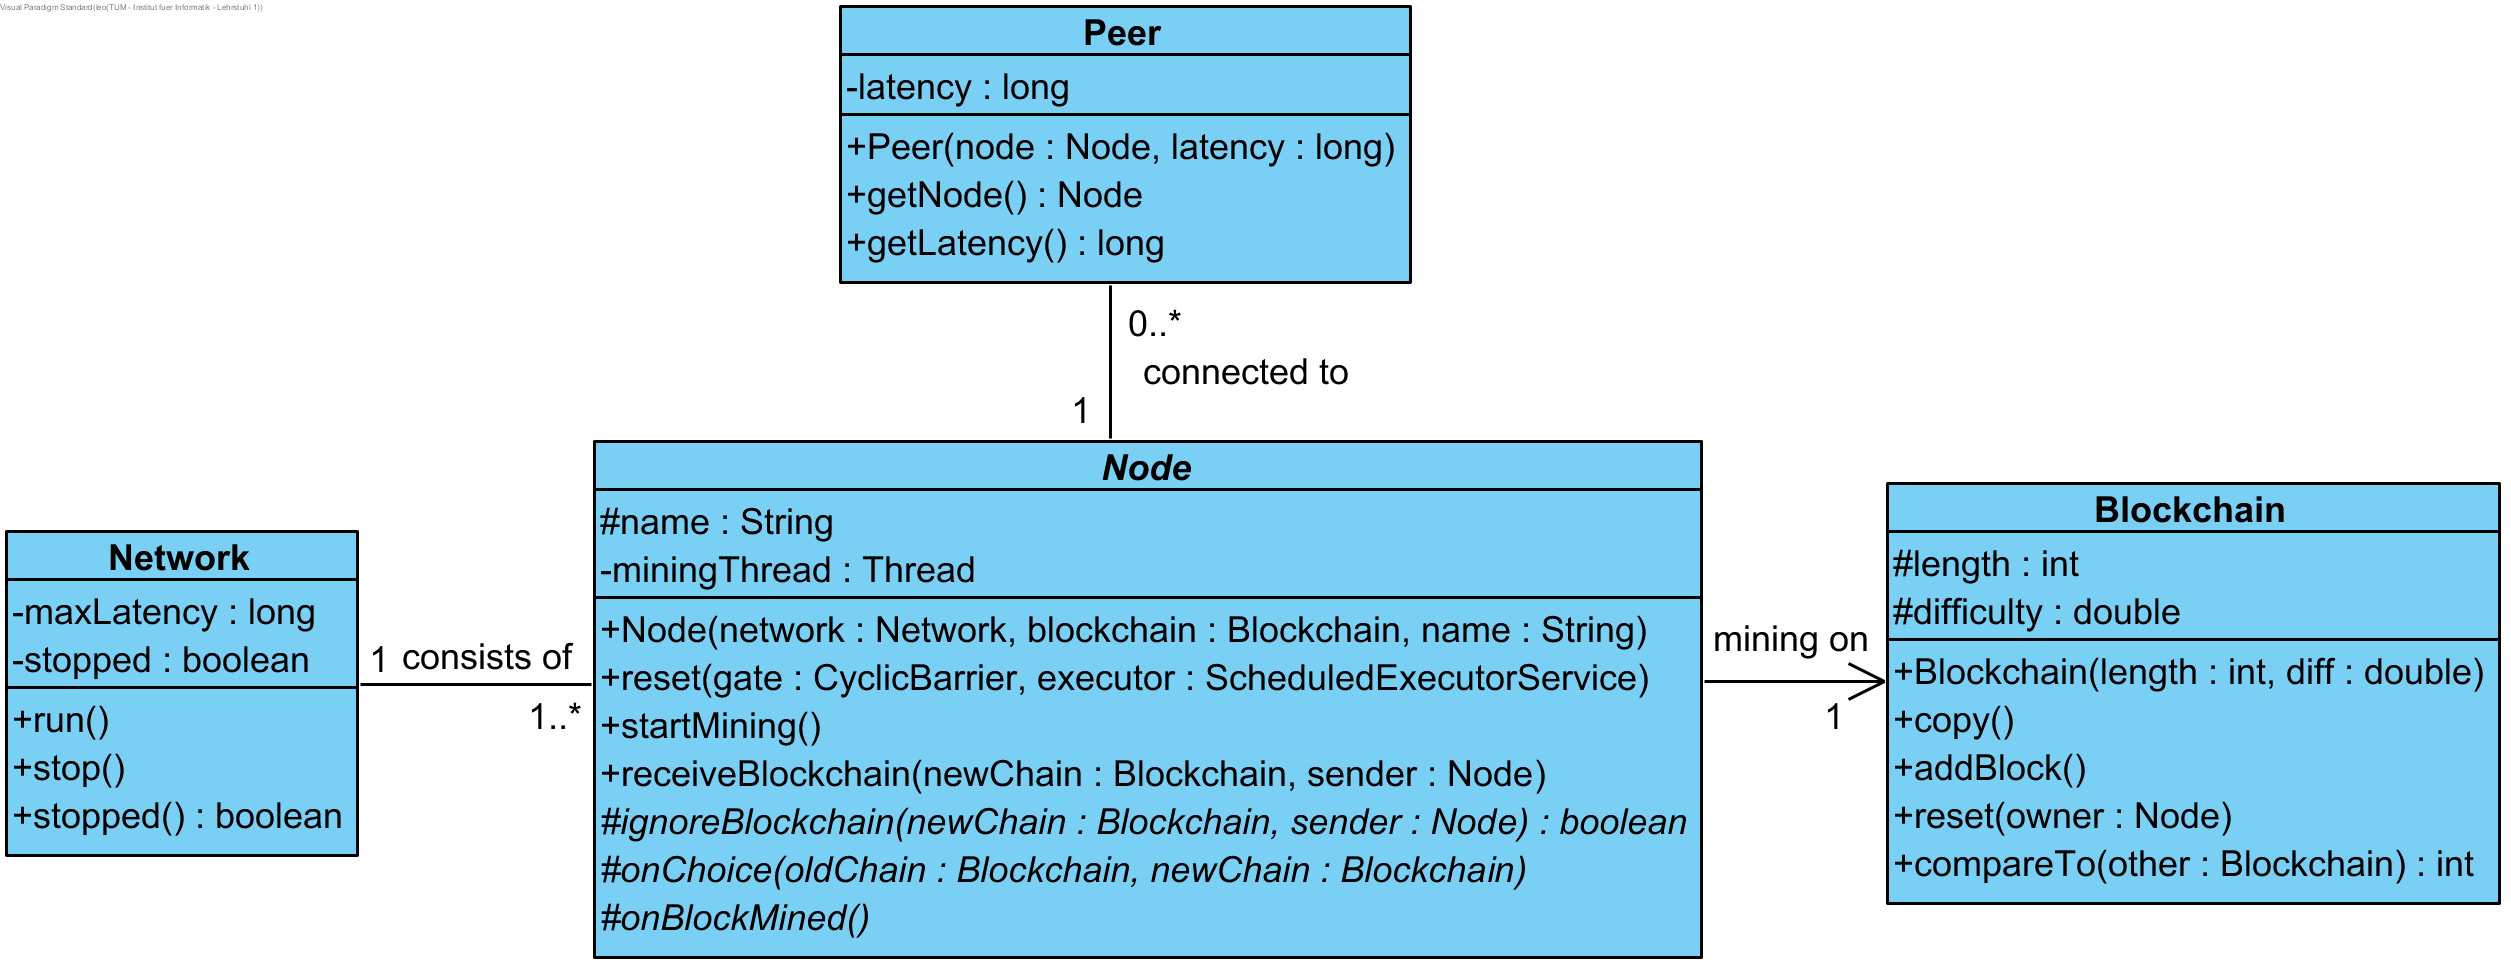
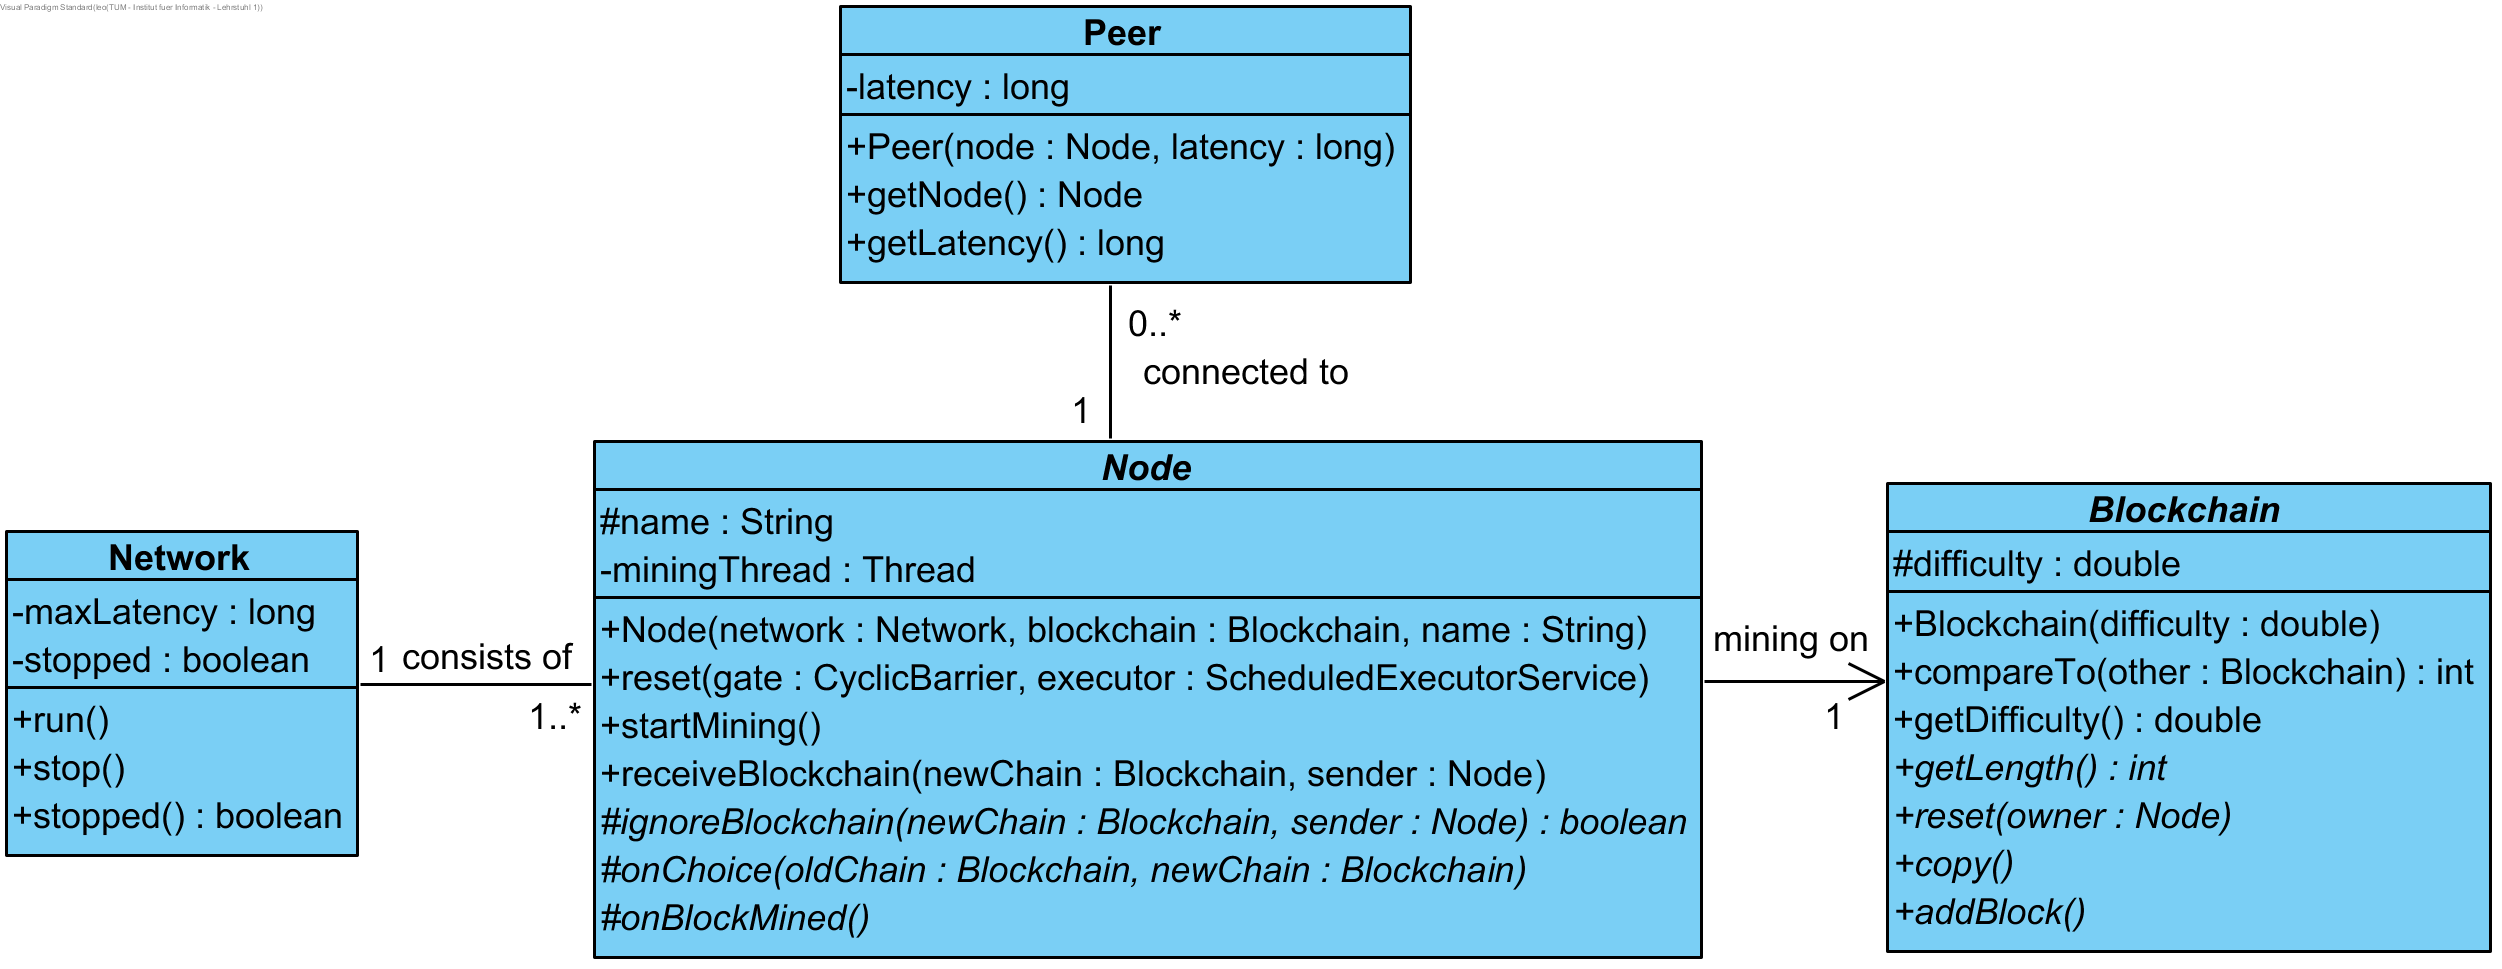
Approach

diff --git a/Thesis/thesis.tex b/Thesis/thesis.tex
@@ -21,6 +21,8 @@
 \usepackage{array}
 \usepackage{longtable}
 \usepackage{amsmath}
+\usepackage{algorithm}
+\usepackage[noend]{algpseudocode}
 \usepackage{listings}
 \usepackage[utf8]{inputenc}
 \usepackage[capitalize, noabbrev]{cleveref}
@@ -43,8 +45,8 @@
 
 
 \hypersetup{pdfborder={0 0 0},
-                        pdfauthor={<author>},
-                        pdftitle={<title english>},
+                        pdfauthor={Leo Eichhorn},
+                        pdftitle={Simulation-Based Analysis of Blockchain Architectures},
                         }
 
 \lstset{showspaces=false, numbers=left, frame=single, basicstyle=\small}
@@ -98,7 +100,11 @@
 
 \begin{acronym}
 \acro{RADS}{Resistance of a blockchain architecture against double spend attacks}
-
+\acro{UTXO}{Bitcoin unspent transaction output}
+\acro{APSP}{All pairs shortest path problem}
+\acro{BTC}{The Bitcoin currency}
+\acro{PoW}{Proof of work}
+\acro{DSA}{Double-spend attack}
 \end{acronym}
 
 \pagenumbering{arabic}
@@ -130,7 +136,7 @@ A blockchain is a public\footnote{In this thesis, only permissionless blockchain
 	\label{blockchain}
 \end{figure}
  
-\section{Bitcoin}
+\section{Bitcoin} \label{bitcoin}
 To gain a better understanding of the blockchain technology and dynamics in a blockchain network, we will provide a short summary of Bitcoin as a concrete example of application. For a more detailed description of the Bitcoin protocol, refer to \cite{nakamoto2008bitcoin,antonopoulos2017mastering,okupski2014bitcoin}.
 
  Bitcoin is a decentralized digital cryptocurrency created by Satoshi Nakamoto in 2008. In the original Bitcoin paper \cite{nakamoto2008bitcoin}, Nakamoto briefly describes the concepts of the proposed protocol and introduces blockchains as a solution to the apparent double-spending problem. Since Bitcoin is operating entirely on a peer-to-peer basis, a central, monitoring authority, known from services like \textit{Visa} or \textit{Paypal}, does not exist. To still guarantee that the same transaction cannot be sent multiple times and the sender's capital is sufficient, Nakamoto's blockchain operates as a public ledger and stores each successful transaction, marked with a unique ID. By creating this synchronized and chronological order of transaction events, a sender's liquidity can easily be confirmed by traversing the public blockchain history and calculating the result of all previous transactions. \cite{nakamoto2008bitcoin,bitcoinwiki}
@@ -199,12 +205,9 @@ For this attack to succeed, \textit{A} needs to mine blocks onto the secret bloc
 \chapter{Related Work}
 \section{Hashrate-based Models for Double-Spend Attacks}
 Potential attacks on blockchains, especially the Bitcoin protocol, have been conceptualized since the release of Nakamoto's original Bitcoin paper \cite{nakamoto2008bitcoin}. In chapter 11 of his proposal, Nakamoto formulates the first mathematical model to calculate the theoretical probability of successful double-spend attacks on his protocol. This model has since been improved and adapted several times, while similar, independent models have been formulated as well \cite{HBDSA,DSAwithTime,NakamotoDSACorrection,NakamotoExplMCSim}. Similar to \cite{DSAwithTime}, we will call the collection of these approaches \textit{hashrate-based} attack models. The central premise of a hashrate-based model is splitting the total computing power available to the network (hashrate \textit{H}), into two parts. To achieve this, \cite{HBDSA} defines \textit{pH} as the hashrate controlled by honest nodes adhering to the protocol, while \textit{qH} is used by malicious nodes trying to attack the blockchain. Since also
-\begin{subequations}
-\renewcommand{\theequation}{\theparentequation.\arabic{equation}}
-\begin{align}
-p + q & = 1
-\end{align}
-\end{subequations}
+\begin{equation}
+p + q = 1
+\end{equation}
 it can easily be seen that \textit{p} and \textit{q} are precisely the probabilities of the next block being mined by either the honest or the attacking part of the network. Using an adaptation of the Gambler's Ruin problem \cite{gamblersruin}, Nakamoto and \cite{HBDSA} are now calculating the probability \textit{Q\textsubscript{z}} of an attacker successfully catching up with their fork of the blockchain, asuming they are at a total deficit of \textit{z} blocks compared to the honest nodes. The success of a potential double-spend attack against a merchant waiting for \textit{n} confirmations can now be formulated as the probability of \textit{Q\textsubscript{z}}, after \textit{n} blocks have been mined by the honest network. While \cite{nakamoto2008bitcoin} is using a poisson distribution in his formula, \cite{HBDSA} is achieving similar results with a negative binomial distribution. Combined with \cite{NakamotoDSACorrection}, the author of \cite{HBDSA} is also pointing out and correcting an of-by-one error introduced by Nakamoto, who is only calculating the probability of an attacker \textit{catching up} with his fraudulent blockchain fork, while for the double spend attack to be successful, the length of the honest chain has to be \textit{surpassed}. \cite{DSAwithTime} presents two similar approaches but considers partial advancement towards block creation as well. The author's first model extends the hashrate-based model formulated by \cite{HBDSA} and includes an additional parameter, indicating the time an attacker has already spent mining on blocks. The second model is fundamentally based on the time differences at which honest and attacking nodes have mined their last block, but is also relying on hashrates as a measure of computational power.
 It is interesting to note that all of the before mentioned models produce similar results, despite the differences in their calculations. Therefore it is less surprising that the authors seem to agree on their general conclusions as well. Those can be summarized as follows:
 \begin{itemize}
@@ -235,13 +238,15 @@ Using these parameters and the simulator framework, we will then propose our own
 \chapter{Approach}
 
 \section{Simulation Framework}
-The core part of the simulator represents an abstracted framework for blockchain architectures. Compared to the example blockchain protocol presented by Bitcoin, a few adaptations have been made 
+To simplify future implementation of simulations for other attacks on block-chains, the core part of our simulator represents an extensible, abstracted framework for general blockchain architectures. By subclassing the existing elements of the framework, the simulator's functionality can be extended and customized, in order to model specific blockchain dynamics. Compared to the example blockchain protocol presented in Section \ref{bitcoin}, a few adaptations have been made:
 \begin{itemize}
-\item nodes send their entire version of the blockchain
-\item blockchain represented by its length
-\item not transactions or blocks
-\item nodes start mining on received blockchain if it is longer than the blockchain currently being mined on
-\item generating random numbers instead of increment nonce + hash
+\item Every node of the network is a miner.
+\item Each miner is represented by a single program thread.
+\item Instead of hashing a block and updating nonce values, mining a block consists of repeatedly generating random numbers until a number lower than the target difficulty is found.
+\item The framework does not include generation and transmission of transactions, since the data contained inside the blocks is not relevant to our investigations.
+\item Instead of sending single blocks, miners propagate whole copies of their local blockchains along the network.
+\item Nodes start mining on a received blockchain if it is longer than the blockchain currently being mined on.
+\item Latency time between two peers is constant and symmetric.
 \end{itemize}
 \subsection{Classes}
 \begin{figure}[ht]
@@ -252,7 +257,7 @@ The core part of the simulator represents an abstracted framework for blockchain
 \end{figure}
 
 \subsubsection{Node}
-The node represents a basic implementation of a honest miner adhering to the blockchain protocol. Each node contains a reference to every other node in the network using the peer class. Once a new block is mined, it is added to the local blockchain and, after the corresponding latency, a copy of the blockchain is sent to all peers. The node will only start mining on a newly received blockchain, if it is longer than the local blockchain copy. To simplify execution of multiple simulation runs, each node can be reset to their initial state. To allow simulation of nodes diverging from the standard protocol, the class contains three abstract methods which can be implemented to alter the behavior of the node. 
+The node represents a basic implementation of a honest miner adhering to our blockchain protocol. Each node contains a reference to every other node in the network using the peer class. Once a new block is mined, it is added to the local blockchain and, after the corresponding latency times, a copy of the blockchain is sent to all peers. The node will only start mining on a newly received blockchain if it is longer than the local blockchain copy. To simplify execution of multiple simulation runs, each node can be reset to their initial state. To allow simulation of nodes diverging from the standard protocol, the class contains three abstract methods which can be implemented to alter the behavior of the node. 
 
 \subsubsection{Peer}
 To represent the connection to a node in the network, the peer implements a simple data class, containing the latency time in milliseconds needed to reach the referenced node.
@@ -261,11 +266,11 @@ To represent the connection to a node in the network, the peer implements a simp
 In order to allow concrete implementations of different blockchain models, the blockchain class only provides the abstracted interface required by nodes. An implementation of the blockchain class therefore contains routines for adding a block and returning the length of the blockchain. Since nodes propagate whole copies of the blockchain instead of single blocks, a method of copying the blockchain has to be implemented as well.
 
 \subsubsection{Network}
-The network acts as a central controller of the blockchain framework. It maintains references to all nodes in the network and provides simple routines for starting and stopping the mining process of all nodes in a synchronized manner. Once the network is started, the calling thread of \textit{run()} is blocked, until the execution of all nodes is completed. The nodes terminate their mining threads after the network is stopped, which is ideally done as a consequence of some end condition reached by the simulation.
+The network acts as a central controller of the blockchain framework. It maintains references to all nodes in the network and provides simple routines for starting and stopping the mining processes of all nodes in a synchronized manner. Once the network is started, the calling thread of \textit{run()} is blocked until the execution of all nodes is completed. The nodes terminate their mining threads after the network is stopped, which is ideally done as a consequence of some end condition reached by the simulation.
 
 
 \subsection{Creating the Peer-to-peer Network}
-Strategy pattern
+Apart from simulating blockchains and miners, the simulator framework requires additional functionality to model different forms of peer-to-peer networks. The general task is to create a connected graph of all nodes, whereas edges and edge weights represent the latency times between two nodes. Using the strategy pattern\cite{strategy}, the simulator framework provides implementations of five different ways of modeling the network (\autoref{peerstrategy}), while additional strategies can easily be added in the future. The different peer strategies are used by instantiating the specific strategy and calling the \textit{connectPeers()} method using a list of all nodes in the network. The strategy will then populate the peer lists of each node accordingly. In the following an overview of the available strategies will be provided.
 \begin{figure}[ht]
 	\centering
   \includegraphics[width=\textwidth]{PeerStrategy.png}
@@ -273,14 +278,53 @@ Strategy pattern
 	\label{peerstrategy}
 \end{figure}
 \subsubsection{ConstantPeerStrategy}
+All nodes in the network are connected by symmetric latencies $l$, sampled from a normal distribution with constant mean $m$. The standard deviation is calculated using a constant deviation factor $c$ and the mean.
+\begin{equation}\label{distribution} 
+l\in L\sim cmN(0,1)+m = N(m,c^{2}m^{2})
+\end{equation}
 \subsubsection{EuclideanPeerStrategy}
+Similar to the model presented by \cite{mwalemodel}, all Nodes are assigned random coordinates $(x,y)$ in a two dimensional plane. The latency between two Nodes $p$ and $q$ is sampled from a normal distribution whose mean $m$ is equal to the nodes' euclidean distance.
+\begin{equation}\label{euclid}
+m = \sqrt{(p_{x}-q_{x})^{2}+(p_{y}-q_{y})^{2}}
+\end{equation}
+The standard deviation is calculated as shown in formula \ref{distribution}. By setting the strategy's \textit{width} and \textit{height} parameters, the area of the two dimensional plane can be defined. Creating a bigger plane therefore leads to overall higher latencies in the network.
 \subsubsection{AdjMatrixPeerStrategy}
+This strategy creates a graph of nodes according to a given adjacency matrix. Latencies between two nodes are represented by the matrix entries, whose indices refer to the corresponding nodes in the provided list. Negative entries indicate that there is no connection between two nodes, whereas a value of zero leads to a connection without latency. Choosing the entry values allows simulation of typical network topologies like stars and rings. After creating the graph, Dijkstra's shortest path algorithm\cite{dijkstra} is used to solve the all pairs shortest path (APSP) problem. With the resulting distance matrix, all peers of each node can be initialized.
 \subsubsection{BoolMatrixPeerStrategy}
+Similar to the previous strategy, a graph is created as specified by the given adjacency matrix. This time, positive entries of the matrix only indicate existence of a connection between two nodes, whereas negative and zero values lead to no connection in the graph. The latencies are instead sampled from a normal distribution with constant mean and standard deviation as defined by formula \ref{distribution}.
 \subsubsection{RndGraphPeerStrategy}
+This strategy generates a pseudo-random graph with a given number of nodes and edges. To avoid the infinite scale of a parameter defining the number of edges, the graph density $d$ is used instead. Since the generated graph has to be connected, the number of edges $e$ is calculated from $d$ and the number of nodes $n$ as shown in equation \ref{dens}. 
+\begin{equation}\label{dens}
+e = max \left( d\frac{n\left( n-1\right) }{2}, n-1 \right), d\in [0,1]
+\end{equation}
+It is important to note, that the created graph is not entirely random, as Algorithm \ref{rndgraph} introduces a bias by always selecting a visited node for one end of a new edge. Since for each iteration, only visited nodes are considered, earlier nodes are more likely to receive a higher degree.\cite{stackoverflow} 
 
+Edge weights of the graph corresponding to the latency between two nodes are sampled according to formula \ref{distribution}. The distances between all nodes used to initialize each node's peers are again calculated by Dijkstra's APSP algorithm. 
+\begin{algorithm}
+\caption{Creates a pseudo-random graph with the given number of nodes and edges}\label{rndgraph}
+\begin{algorithmic}[1]
+\Procedure{RndGraph}{nodes, edges}
+\State $\textit{G} \gets \textit{(V, E)}$
+\State $i \gets 0$
+\State $V \cup \{i \}$
+\While {$++i < \textit{nodes}$}
+\State $u \gets \textit{rndElement(V)}$
+\State $V \cup \{i \}$
+\State $E \cup \{(i,u),(u,i) \}$
+\EndWhile
+\State $e \gets edges - (nodes-1)$
+\While {$e-- > 0$}
+\State $E' \gets \textit{missingEdges(G)}$
+\State $(x,y) \gets \textit{rndElement(E')}$
+\State $E \cup \{(x,y),(y,x) \}$
+\EndWhile
+\State \Return $G$
+\EndProcedure
+\end{algorithmic}
+\end{algorithm}
 
 \section{Double-Spend Simulation}
-
+general idea, one run try for double spend, multiple runs for ratio. 
 \subsection{Classes}
 \begin{figure}[ht]
 	\centering
@@ -289,13 +333,19 @@ Strategy pattern
 	\label{simulation}
 \end{figure}
 \subsubsection{DSSimulation}
+initialises all nodes, network. creates peer graph every run if enabled. 
 \subsubsection{DSBlockchain}
-Despite blockchain only represented by number of blocks not actual blocks,no distinction between stale main orphaned blocks, effect of stale blocks and branches still exist
+The blockchain used to simulate double-spend attacks.  It is important to note, that despite not explicitly distinguishing between stale and valid blocks by representing the blockchain only by its length, the effect of stale blocks and branches still exists in the network. Imagine the current consensus in the network to be a blockchain of length 3. If now two nodes mine a new block at approximately the same time, both send blockchains of length 4 to every peer. In the original protocol there would be two different blockchains of length 4 spread across the network, but using our model they are indistinguishable. Nevertheless the nodes of our network simulation still experience one wasted, stale block since they mined a total of two blocks, but were only able to increase the length of the consented blockchain by one.
+\subsubsection{DSManager}
+Collects data sent from every node, keeps track of double spend progress, longest attacker \& trusted chain, success if all trusted nodes infested, failure if max length or max lead, once end condition reached reports completion to dssimulation
 \subsubsection{TrustedNode}
+atackers only sending infested blockchain to trusted nodes once trusted blockchain is confirmed, simulated by trusted nodes only accepting infested chains once confirmed. report new block to manager, depending on infested status adds progress to attacker or trusted. gets infected if previously mining on trusted chain, now on infected chain and vise verca. 
 \subsubsection{AttackerNode}
+reports each new block to manager, only accepts infested blockchains (containing fradulent transaction)
 \subsubsection{ConnectionStrategy}
+aquivalent to peerstrategy but allows connecting to sets of nodes with each other. currently only implementation: constant latency of each attacker node with each trusted node see formula
 
-\section{Activity}
+\subsection{Activity}
 \begin{figure}[ht]
 	\centering
   \includegraphics[width=\textwidth]{Activity1.png}
